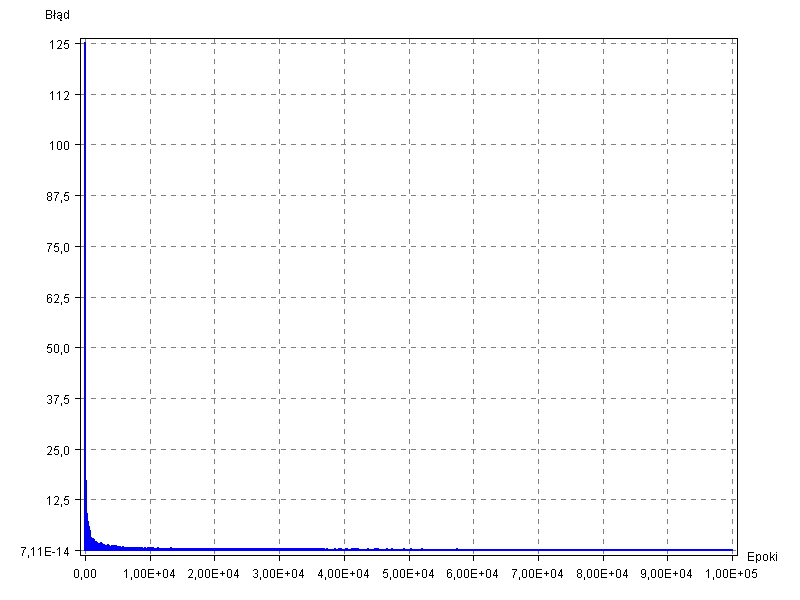
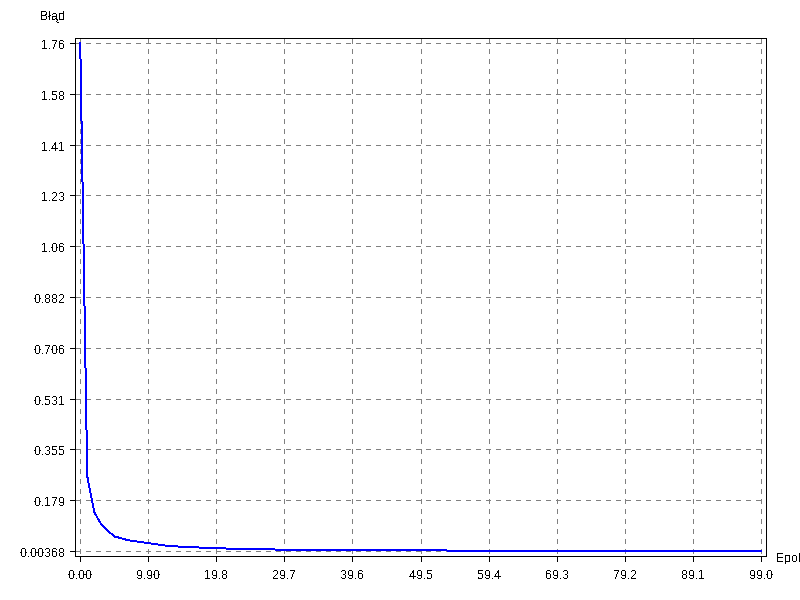
Now it is beautiful

diff --git a/src/algorithms/BackPropagation.java b/src/algorithms/BackPropagation.java
@@ -1,18 +1,34 @@
 package algorithms;
 
+import dataManagement.Example;
+import dataManagement.Examples;
 import network_components.Layer;
 import network_components.Network;
 import network_components.Neuron;
 
 import java.util.ArrayList;
+import java.util.Collections;
 import java.util.List;
 
 public class BackPropagation {
-    public static List<Double> train(Network network, List<Double> inputs, List<Double> desiredOutputs, double learningRate, double momentum) {
-        network.work(inputs);
-        List<Double> ret = calculateErrors(network, desiredOutputs);
-        updateWeights(network, inputs, learningRate, momentum);
-        return ret;
+    public static List<Double> train(Network network, Examples examples, double learningRate, double momentum) {
+        Collections.shuffle(examples);
+        List<Double> errors = new ArrayList<>();
+        for(int i = 0; i < examples.getFirst().getOutputs().size(); i++) {
+            errors.add(0.0);
+        }
+        for(Example e : examples) {
+            network.work(e.getInputs());
+            List<Double> temp = calculateErrors(network, e.getOutputs());
+            for(int i = 0; i < temp.size(); i++) {
+                errors.set(i, errors.get(i) + temp.get(i));
+            }
+            updateWeights(network, e.getInputs(), learningRate, momentum);
+        }
+        for(int i = 0; i < errors.size(); i++) {
+            errors.set(i, errors.get(i)/examples.size());
+        }
+        return errors;
     }
 
     private static List<Double> calculateErrors(Network network, List<Double> desiredOutputs) {

diff --git a/src/Main.java b/src/Main.java
@@ -20,10 +20,9 @@ public class Main {
         double learningRate = 0.01;
         double momentum = 0;
 
-        for(int i = 0; i < 100000; i++) {
+        for(int i = 0; i < 100; i++) {
             errorX.add(Double.valueOf(Integer.toString(i)));
-            Example e = examples.getRandom();
-            Double d = BackPropagation.train(network, e.getInputs(), e.getOutputs(), learningRate, momentum).get(0);
+            Double d = BackPropagation.train(network, examples, learningRate, momentum).get(0);
             errorY.add(d);
             System.out.println(d);
             //if(i > 100) learningRate *= 0.96;
